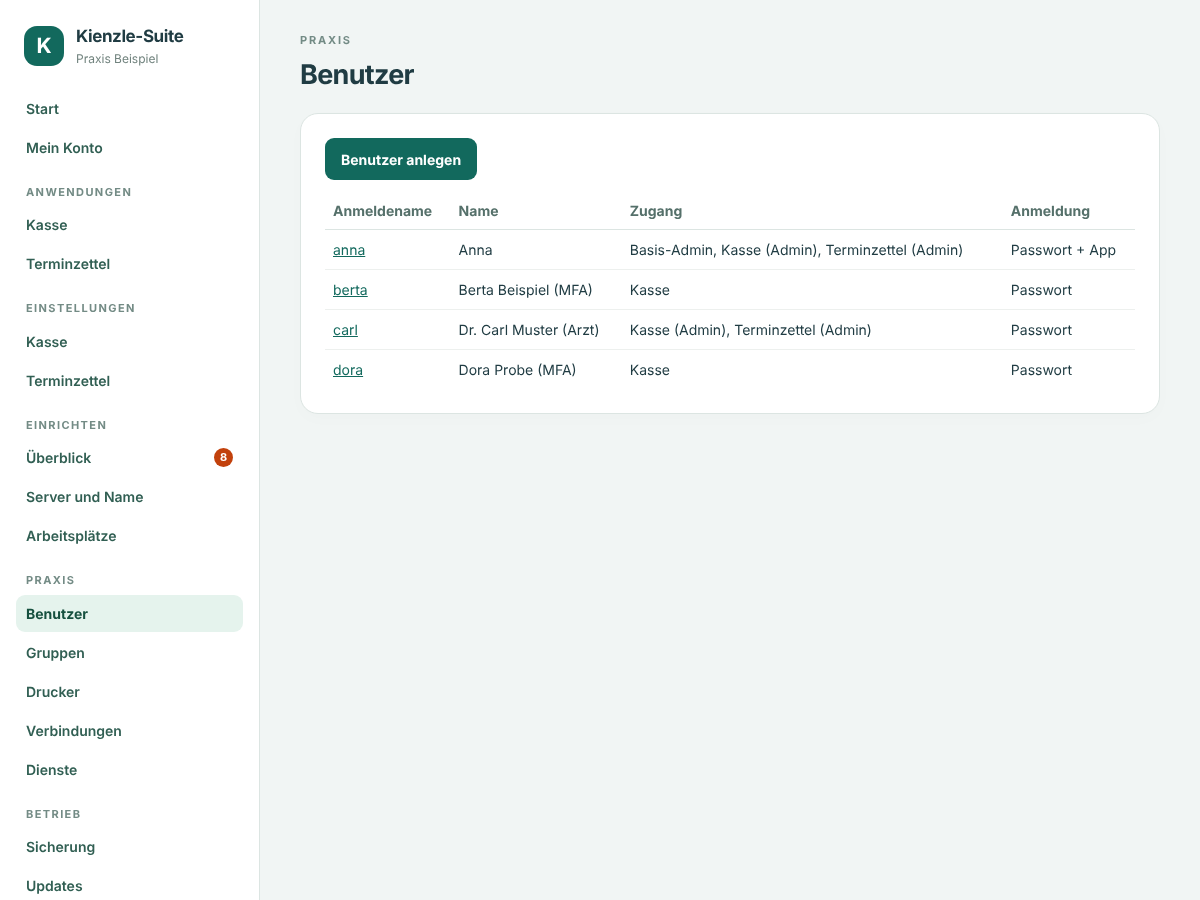
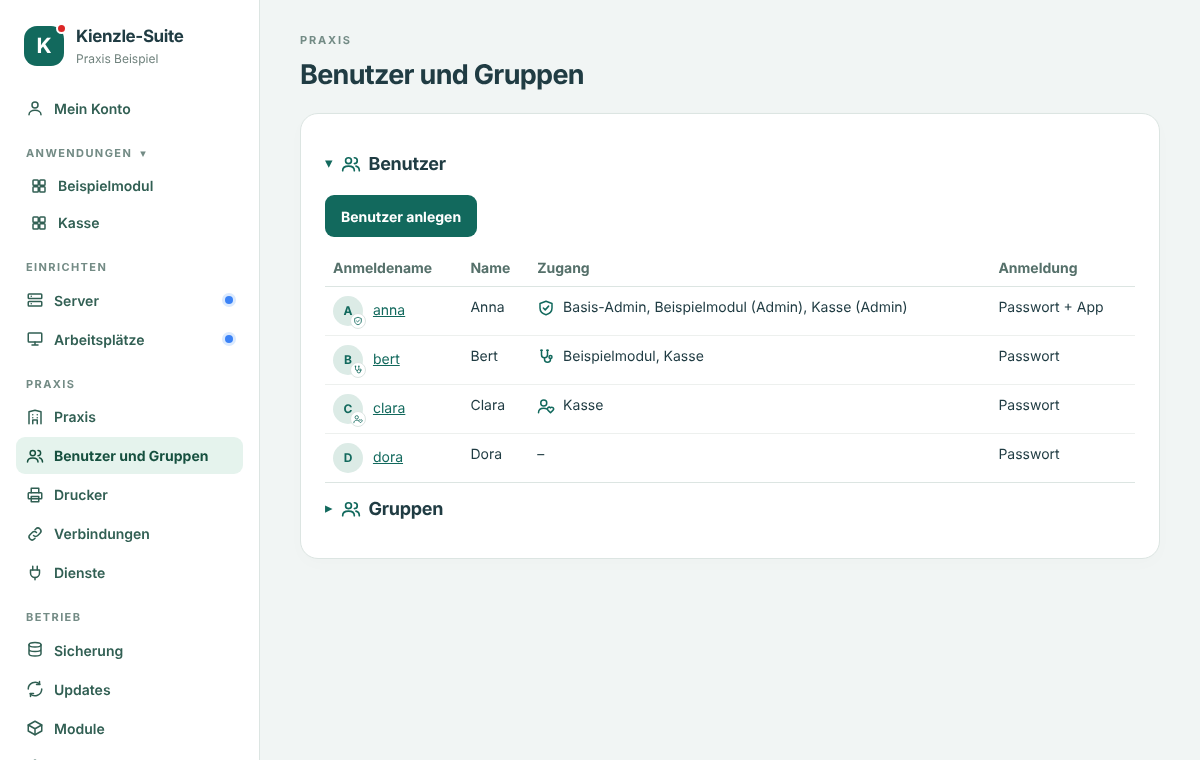
Basis 0.21.4-beta.34, Kasse 2.3.4-beta.15: README und Bildschirmfotos aktualisiert, Aufnahme-Skripte, eingebettete Kassenansicht ohne doppelte Marke

diff --git a/modules/sumup/public/assets/app.js b/modules/sumup/public/assets/app.js
@@ -561,6 +561,7 @@ function autoAction(invoiceId, action) {
 }
 async function init() {
   const query = new URL(location.href).searchParams, auto = {invoice: query.get('rechnung'), action: query.get('aktion')};
+  if (query.get('neu') || query.get('rechnung')) { $('welcome').hidden = true; document.querySelector('.top .brand').hidden = true; }   // eingebettet in der Startseite: gleich die Arbeitsfläche zeigen, nicht die Willkommenskarte
   // Start aus T2med: #launch=<code>. Musste sich der Benutzer erst an der Suite anmelden, hat die Basis den Code im Tab gemerkt.
   let hash=location.hash.slice(1);
   try { if(!hash.startsWith('launch=')) hash=(sessionStorage.getItem('kienzle-launch')||'').slice(1); sessionStorage.removeItem('kienzle-launch'); } catch { /* ohne sessionStorage */ }

diff --git a/scripts/bildschirmfotos.php b/scripts/bildschirmfotos.php
@@ -1,0 +1,45 @@
+<?php
+declare(strict_types=1);
+// Erzeugt die Seiten der Basis für die Bildschirmfotos in der README als eigenständiges HTML (Stylesheet eingebettet) aus der Testumgebung mit
+// erfundenen Daten. Aufruf: php scripts/bildschirmfotos.php <Zielordner>; Aufnahme: scripts/bildschirmfotos.sh. Nie Daten einer echten Installation verwenden.
+require dirname(__DIR__) . '/tests/php/lib.php';
+require dirname(__DIR__) . '/tests/php/browser.php';
+require dirname(__DIR__) . '/tests/php/verbindungen_hilfe.php';
+
+use Kienzle\Core\{Connections, Updates};
+
+$out = $argv[1] ?? sys_get_temp_dir() . '/bilder';
+if (!is_dir($out)) mkdir($out, 0755, true);
+$css = (string)file_get_contents(dirname(__DIR__) . '/core/public/assets/core.css');
+
+$env = new Env();
+[$admin] = admin_browser($env, 'anna');
+[$bert] = $env->user('bert'); $env->users->setRoles($bert, ['Arzt']);
+[$clara] = $env->user('clara'); $env->users->setRoles($clara, ['MFA']);
+$env->user('dora');
+
+function seite(string $name, string $html, string $out, string $css): void {
+    $html = preg_replace('#<link rel="stylesheet" href="/assets/core.css[^"]*">#', '<style>' . $css . '</style>', $html);
+    $html = preg_replace('#<script[^>]*></script>#', '', (string)$html);
+    file_put_contents($out . '/' . $name . '.html', $html);
+}
+$cases = ['start' => '/', 'benutzer' => '/verwaltung/benutzer', 'gruppen' => '/verwaltung/gruppen', 'konto' => '/konto', 'einrichtung' => '/verwaltung/einrichtung',
+    ];
+foreach ($cases as $name => $url) {
+    $r = $admin->get($url);
+    echo str_pad($name, 14) . $r->status . "\n";
+    if ($r->status === 200) seite($name, $r->body, $out, $css);
+}
+// Verbindungen und Updates brauchen eigene Dienste (hier mit erfundenem Status statt der root-Dienste).
+[$cenv, $con] = con_env(['mail' => ['art' => 'smtp', 'absender' => 'suite@example.org', 'host' => 'smtp.example.org', 'port' => 587, 'benutzer' => 'suite@example.org', 'passwort_gesetzt' => true],
+    'ablage' => [['id' => 'steuerbuero', 'name' => 'Steuerbüro', 'art' => 'sftp', 'host' => 'nas.example.org', 'freigabe' => '', 'ordner' => 'kienzle', 'passwort_gesetzt' => false]], 'letzte' => null]);
+[$cb] = admin_browser($cenv, 'anna'); $cb->web = fn() => $cb->defaultWeb(null, null, $con);
+$r = $cb->get('/verwaltung/verbindungen'); echo str_pad('verbindungen', 14) . $r->status . "\n"; if ($r->status === 200) seite('verbindungen', $r->body, $out, $css);
+Updates::$state = $env->dir . '/update'; mkdir(Updates::$state); Updates::$unit = $env->dir . '/kienzle-update.path'; touch(Updates::$unit);
+file_put_contents(Updates::$state . '/status.json', json_encode(['state' => 'done', 'channel' => 'beta', 'checked_at' => time(), 'local' => ['2.3.4-beta.14', $env->config->version()],
+    'available' => ['core' => [['version' => '0.21.4-beta.34', 'prerelease' => true, 'notes' => "Neu: Startseite der Kasse und Einrichtung als Ausklappzeilen.", 'published' => '2026-11-24', 'signed' => true]]]]));
+$up = new Updates($env->db, $env->config); $admin->web = fn() => $admin->defaultWeb(null, $up);
+$r = $admin->get('/verwaltung/updates'); echo str_pad('updates', 14) . $r->status . "\n"; if ($r->status === 200) seite('updates', $r->body, $out, $css);
+$anon = new Browser($env);
+seite('anmelden', $anon->get('/anmelden')->body, $out, $css);
+echo "Seiten in $out\n";

diff --git a/scripts/kasse-vorschau/router.php b/scripts/kasse-vorschau/router.php
@@ -1,0 +1,18 @@
+<?php
+// Kasse lokal ansehen (nur für Bildschirmfotos, erfundene Daten): php -S 127.0.0.1:8099 scripts/kasse-vorschau/router.php  (Daten in $VORSCHAU_DATEN, Standard /tmp/kasse-vorschau)
+$root = dirname(__DIR__, 2);
+$daten = getenv('VORSCHAU_DATEN') ?: '/tmp/kasse-vorschau';
+$path = parse_url($_SERVER['REQUEST_URI'], PHP_URL_PATH);
+if (str_starts_with($path, '/assets/')) {
+    $f = $root . '/core/public' . $path;
+    if (is_file($f)) { header('Content-Type: ' . (str_ends_with($f, '.css') ? 'text/css' : 'text/javascript')); readfile($f); return true; }
+}
+if (!str_starts_with($path, '/kasse')) { http_response_code(404); echo 'nur /kasse'; return true; }
+$menu = rawurlencode(json_encode(['apps' => ['/kasse/' => 'Kasse', '/terminzettel/' => 'Terminzettel'], 'ids' => ['/kasse/' => 'sumup', '/terminzettel/' => 'terminzettel'], 'admin' => true, 'login' => 'anna']));
+$_SERVER += ['KIENZLE_BENUTZER' => 'anna', 'KIENZLE_NAME' => 'Anna Beispiel', 'KIENZLE_ROLLE' => 'admin', 'KIENZLE_RECHTE' => '', 'KIENZLE_CSRF' => 'x', 'KIENZLE_PFAD' => '/kasse',
+    'KIENZLE_MENUE' => $menu, 'KIENZLE_PRAXIS' => rawurlencode(json_encode(['name' => 'Praxis Dr. Beispiel', 'street' => 'Musterweg 1', 'city' => '12345 Musterstadt']))];
+if (isset($_SERVER['HTTP_ORIGIN'])) $_SERVER['HTTP_ORIGIN'] = 'https://localhost';
+require $root . '/modules/sumup/src/bootstrap.php';
+\KienzleSumup\Suite::$helper = $root . '/core/php/modul/Kienzle.php';
+\KienzleSumup\Suite::$data = $daten;
+require $root . '/modules/sumup/public/index.php';

diff --git a/scripts/kasse-vorschau/init.php b/scripts/kasse-vorschau/init.php
@@ -1,0 +1,11 @@
+<?php
+// Legt die Grundwerte für die Kasse-Vorschau an (erfundene Daten): php scripts/kasse-vorschau/init.php
+require dirname(__DIR__, 2) . '/modules/sumup/src/bootstrap.php';
+$daten = getenv('VORSCHAU_DATEN') ?: '/tmp/kasse-vorschau';
+if (!is_dir($daten)) mkdir($daten, 0755, true);
+\KienzleSumup\Suite::$data = $daten;
+\KienzleSumup\Suite::$helper = dirname(__DIR__, 2) . '/core/php/modul/Kienzle.php';
+$_SERVER += ['KIENZLE_BENUTZER' => 'anna', 'KIENZLE_ROLLE' => 'admin', 'KIENZLE_RECHTE' => '', 'KIENZLE_CSRF' => 'x', 'KIENZLE_PFAD' => '/kasse'];
+\KienzleSumup\Suite::ensureGrundwerte();
+ks_app()->db->migrate();   // im Betrieb legt das Installationsprogramm die Tabellen an
+echo "Daten in $daten\n";

diff --git a/README.md b/README.md
@@ -4,31 +4,47 @@ Praxis-Appliance für Hausarztpraxen mit T2med: **eine Basis**, einmal auf einer
 einzeln dazukommen – Kartenzahlung (SumUp), Terminzettel, Fax, Telefon, Kienzlezeit. Verwaltung komplett im
 Webinterface; Firewall, Benutzer, Admin-Zugang mit OTP, Updates und verschlüsselte Sicherung gibt es nur einmal, in der Basis.
 
-Stand: **Basis 0.21.3-beta.2** mit den Modulen **Kasse** (SumUp, Rechnungseingang, Überweisung mit QR-Code) und **Terminzettel** (T2med-Terminzettel auf dem Bondrucker). Installierbar nur auf einer Test-VM ([docs/VM-TEST.md](docs/VM-TEST.md)); Fax, Telefon und Kienzlezeit sind geplant ([docs/PLAN.md](docs/PLAN.md)).
+Stand: **Basis 0.21.4-beta.34** mit den Modulen **Kasse** 2.3.4-beta.15 (SumUp, Rechnungseingang, Überweisung mit QR-Code, Startseite mit freier Eingabe) und **Terminzettel** 1.3.0-beta.2 (T2med-Terminzettel auf dem Bondrucker). Installierbar nur auf einer Test-VM ([docs/VM-TEST.md](docs/VM-TEST.md)); Fax, Telefon und Kienzlezeit sind geplant ([docs/PLAN.md](docs/PLAN.md)).
 
 ![Basis und Module](docs/architektur-whiteboard.png)
 
 ## So sieht es aus
 
-Alle Bilder zeigen erfundene Beispieldaten (Praxis Beispiel, example.org).
+Alle Bilder zeigen erfundene Beispieldaten (Praxis Beispiel, example.org); neu erzeugen mit `bash scripts/bildschirmfotos.sh` ([Hinweise](docs/screenshots/README.md)).
 
 **Eine Anmeldung für alle Module** – Passwort oder Passkey. Basis-Admins brauchen zusätzlich einen Code aus der Authenticator-App (OTP).
 
 ![Anmeldung](docs/screenshots/anmelden.png)
 
-**Benutzer und Rechte:** Jeder Benutzer hat ein Konto für die ganze Suite; pro Modul werden Rechte vergeben, z. B. „Kartenzahlung“ oder „Leistungen bearbeiten“. Die Module melden ihre Rechte selbst an.
+**Übersicht und Menü:** Die Seitenleiste der Suite führt zu den Anwendungen und zur Verwaltung. Auch die Seiten der Module erscheinen im selben Rahmen.
+
+![Start](docs/screenshots/start.png)
+
+**Mein Konto:** Profil mit Avatar und Gruppen, E-Mail-Adresse (Bestätigung per Zahlencode), Passwort, Handynummer, Authenticator-App und Passkeys.
+
+![Mein Konto](docs/screenshots/konto.png)
+
+**Benutzer und Gruppen:** Jeder Benutzer hat ein Konto für die ganze Suite. Gruppen (voreingestellt: Admin, Arzt, MFA = Medizinische Fachangestellte) sind dauerhafte Rollen mit Rechten je Modul; beim Benutzer lassen sich einzelne Rechte abweichend erlauben oder entziehen. Die Module melden ihre Rechte selbst an.
 
 ![Benutzer](docs/screenshots/benutzer.png)
 
-**Gruppen als Vorlagen** (voreingestellt: Admin, Arzt, MFA): Eine Gruppe nennt, in welchen Modulen ihre Mitglieder Admin sind und welche Rechte sie haben. Beim Bearbeiten eines Benutzers wählt man eine Gruppe, die Haken werden übernommen und lassen sich einzeln anpassen. Neue Module erscheinen automatisch in den Gruppen.
+![Gruppen](docs/screenshots/gruppen.png)
 
-![Gruppen Arzt und MFA](docs/screenshots/gruppen-mfa.png)
+**Einrichtung:** Der Überblick zeigt, was noch zu tun ist; nach einer Änderung des Servernamens stehen abhängige Punkte wieder rot („Erneut nötig“).
 
-![Gruppe auf Benutzer anwenden](docs/screenshots/benutzer-gruppe.png)
+![Einrichtung](docs/screenshots/einrichtung.png)
 
-**Sicherung auf das NAS per SFTP:** Verschlüsselte Sicherung mit restic. Das NAS meldet sich mit einem SSH-Schlüssel statt eines Passworts an, der Server-Schlüssel wird fest geprüft. Ziel für alle Module einmal unter „Verbindungen“; SMB nur, wenn das NAS kein SFTP kann.
+**Verbindungen:** Zugänge, die mehrere Module brauchen (T2med, E-Mail, SMS, Letterxpress, Ablage per SFTP oder SMB), werden einmal eingetragen; ein Modul bekommt nur die, die es anmeldet.
 
-![NAS per SFTP](docs/screenshots/nas-sftp.png)
+![Verbindungen](docs/screenshots/verbindungen.png)
+
+**Kasse – Startseite:** Links die Kasse für freie Eingabe, IGeL und GOÄ (auch ohne T2med-Rechnung, Name und Geburtsdatum optional), rechts die offenen T2med-Rechnungen mit Direktwahl Karte, Bar, Überweisung oder Per Post (Letterxpress) und die Tageswerte. Aus T2med startet die Kasse weiterhin schlank ohne Menü.
+
+![Kasse](docs/screenshots/kasse-start.png)
+
+**Kasse – Einstellungen:** Die Einrichtung steht als Ausklappzeilen im Stil der Suite, Rotes zuerst; am Zahnrad der Startseite zeigt eine rote Zahl, wie viel noch offen ist.
+
+![Kasse-Einstellungen](docs/screenshots/kasse-einstellungen.png)
 
 **Updater:** Updates je Modul und Basis aus signierten Releases (Kanal stabil oder beta), Sicherung vor dem Update, automatischer Rücksprung bei einem Fehler. Kein Update, solange z. B. eine Kartenzahlung läuft.
 
@@ -38,7 +54,7 @@ Alle Bilder zeigen erfundene Beispieldaten (Praxis Beispiel, example.org).
 - Installation: [docs/INSTALLATION.md](docs/INSTALLATION.md)
 - Umsetzungsplan Schritt 1: [docs/PLAN.md](docs/PLAN.md)
 - Schnittstelle für Module: [docs/MODUL-SCHNITTSTELLE.md](docs/MODUL-SCHNITTSTELLE.md), Format [docs/MODULE-TOML.md](docs/MODULE-TOML.md)
-- Arbeitsregeln (auch für Claude Code): [AGENTS.md](AGENTS.md)
+- Arbeitsregeln und Stand für Agenten (auch Claude Code): [AGENTS.md](AGENTS.md); Beispielrechnung aus T2med (erfunden): [modules/sumup/tests/fixtures](modules/sumup/tests/fixtures/README.md)
 - Grundlage: [hau-si/kienzle-suite-beta](https://github.com/hau-si/kienzle-suite-beta), Fork von
   [thomaskien/t2med-sumup](https://github.com/thomaskien/t2med-sumup)
 

diff --git a/docs/RELEASE.md b/docs/RELEASE.md
@@ -1,5 +1,9 @@
 # Basis – Release-Notizen
 
+## 0.21.4-beta.34
+
+- Dokumentation: README und Bildschirmfotos auf den aktuellen Stand gebracht (neu: Übersicht, Mein Konto, Gruppen, Einrichtung, Verbindungen, Kasse-Startseite und -Einstellungen); die Bilder entstehen jetzt reproduzierbar mit `scripts/bildschirmfotos.sh` (erfundene Daten, Vorschau der Kasse in `scripts/kasse-vorschau/`). AGENTS.md enthält den vollständigen Stand für neue Sitzungen. Keine Funktionsänderung.
+
 ## 0.21.4-beta.33
 
 - Mein Konto: Die E-Mail-Adresse wird jetzt mit einem Zahlencode bestätigt (16 Ziffern in Vierergruppen, z. B. 1234-5678-9012-3456) statt mit einem Link, denn ein Link ist im lokalen Netz oft nicht erreichbar. Der Code wird in Mein Konto eingegeben, gilt eine Stunde und ist nach fünf falschen Eingaben verbraucht. Der Link zum Zurücksetzen des Passworts („Passwort vergessen?“) bleibt unverändert.

diff --git a/AGENTS.md b/AGENTS.md
@@ -38,7 +38,7 @@ Oberfläche, Hilfetexte, Dokumentation und Commit-Nachrichten auf Deutsch.
 
 ## Hinweise für neue Sitzungen (Stand 24.11.2026)
 
-**Stand:** Basis 0.21.4-beta.33, Kasse (`sumup`) 2.3.4-beta.13, Terminzettel 1.3.0-beta.2; Zweig `beta` ist aktuell, `main` steht auf einem älteren Endstand
+**Stand:** Basis 0.21.4-beta.34, Kasse (`sumup`) 2.3.4-beta.15, Terminzettel 1.3.0-beta.2; Zweig `beta` ist aktuell, `main` steht auf einem älteren Endstand
 (Basis 0.19.1). Der Nutzer testet auf einer echten Ubuntu-26.04-VM (Aktualisierung dort: `cd ~/kienzlesuite-2.0 && git pull && sudo bash installer/install.sh`,
 oder in der Weboberfläche unter „Updates“). Die Adresse der VM gehört nicht ins Repository.
 

diff --git a/docs/screenshots/README.md b/docs/screenshots/README.md
@@ -1,0 +1,7 @@
+# Bildschirmfotos
+
+Alle Bilder zeigen erfundene Daten (Praxis Beispiel, example.org). Neu erzeugen: `bash scripts/bildschirmfotos.sh` (benötigt `php` und Chrome oder Chromium).
+
+- Seiten der Basis: `scripts/bildschirmfotos.php` baut sie aus der Testumgebung (`tests/php/lib.php`, `tests/php/browser.php`) mit den Modul-Manifesten und speichert sie als HTML mit eingebettetem `core.css`.
+- Seiten der Kasse (`kasse-*.png`): `scripts/kasse-vorschau/` startet die Kasse lokal mit erfundenen `KIENZLE_*`-Werten (`init.php` legt Grundwerte und Datenbank an, `router.php` ist der Router für `php -S`).
+- Aufnahme mit `google-chrome --headless=new --screenshot`. Nie Daten einer echten Installation verwenden.

diff --git a/modules/sumup/RELEASE.md b/modules/sumup/RELEASE.md
@@ -1,5 +1,9 @@
 # Modul „Kasse“ (sumup) – Release-Notizen
 
+## 2.3.4-beta.15
+
+- In der Startseite eingebettete Kassenansicht: Marke „Kasse“ und Willkommenskarte werden dort nicht mehr doppelt gezeigt.
+
 ## 2.3.4-beta.14
 
 - Anonymisierte Beispielrechnung im Aufbau der T2med-Liquidation (`tests/fixtures/t2med-beispielrechnung.pdf`, vollständig erfunden, mit Erzeugungsskript und Beschreibung) und ein Test, der sie mit dem Rechnungsleser prüft. Nur Tests und Dokumentation.
